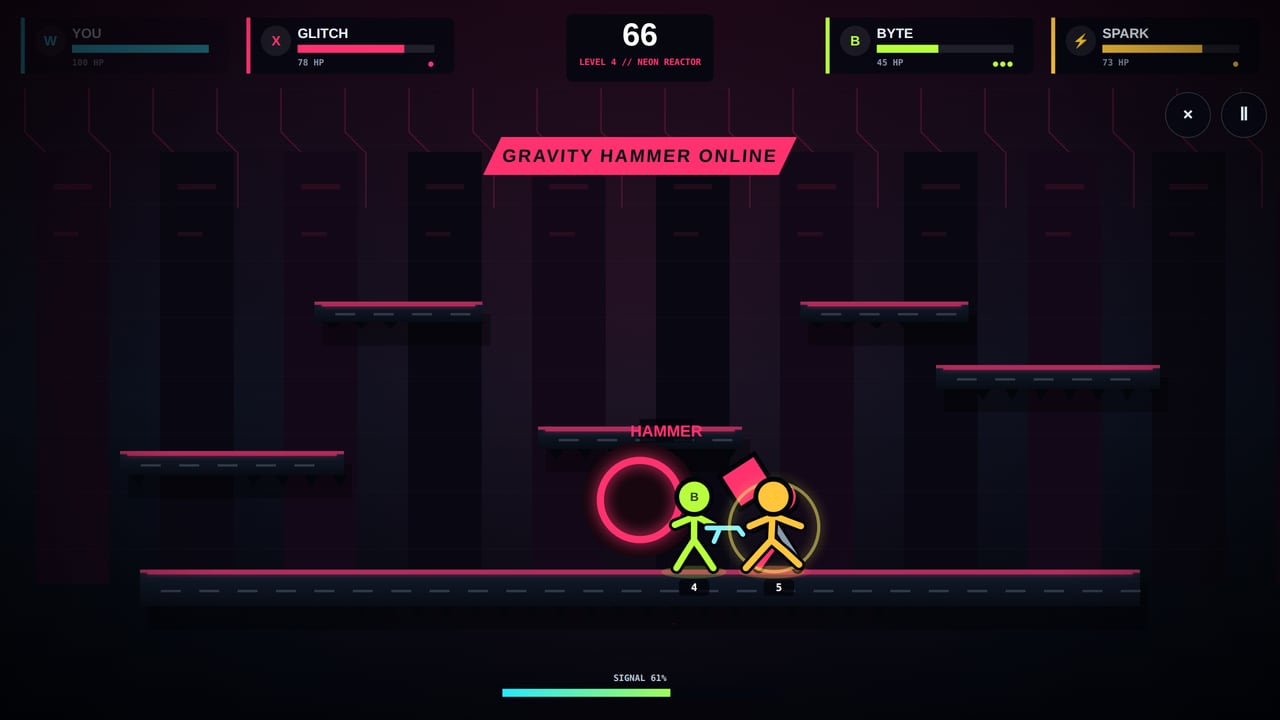
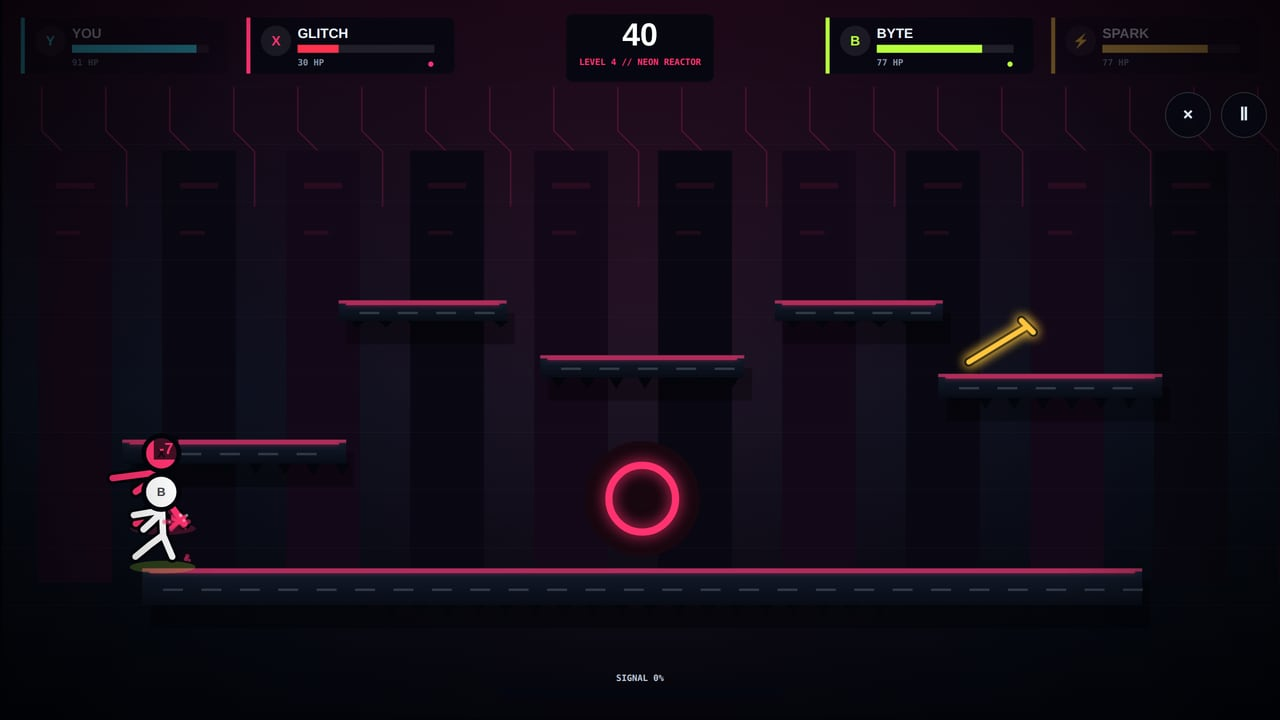
Remove the WEBCADE branding from Signal Brawl
The build arrived branded as a WEBCADE original. Gone from the shipped
files: the "WEBCADE // SIGNAL BRAWL" title tag, the meta description, and
the boxed-W "WEBCADE ORIGINAL" kicker above the logo, along with the
.brand-kicker and .w-mark rules and their breakpoint overrides. The menu
re-centres on the logo, which is where a title screen wants the eye anyway.

The player's fighter wore the same W on its head and HUD card while every
rival wears the initial of their name, so YOU is a Y now.

Recaptured the cover and all five gallery shots, which carried the kicker
and the W. The new result shot also picks up the "YOU OWN THE SIGNAL" fix.

A test asserts none of the four shipped files mentions WEBCADE again.

The two remaining mentions in the repo are in docs/product-reference, where
WEBCADE is named as a platform to surpass and a style to avoid rather than
as branding, so they stay.

Claude-Session: https://claude.ai/code/session_01KKz23RpnqrQP1E2wZAsAFm

diff --git a/public/games/signal-brawl/game.js b/public/games/signal-brawl/game.js
@@ -33,7 +33,7 @@
   const MAX_FALL = 1280;
   const COLORS = ["#27e7ff", "#ff326f", "#b7ff3c", "#ffc53d"];
   const NAMES = ["YOU", "GLITCH", "BYTE", "SPARK"];
-  const ICONS = ["W", "X", "B", "⚡"];
+  const ICONS = ["Y", "X", "B", "⚡"];
   const STAGE_NAMES = ["SIGNAL FOUNDRY", "ROOFTOP RELAY", "CRUSHER VAULT", "NEON REACTOR", "ZERO-G TERMINAL", "FINAL BROADCAST"];
   const isTouch = matchMedia("(pointer: coarse)").matches || navigator.maxTouchPoints > 0;
   const reducedMotion = matchMedia("(prefers-reduced-motion: reduce)").matches;
@@ -52,7 +52,7 @@
    * Persistence.
    *
    * Two hosts have to work. Opening index.html directly gives the game its own
-   * origin and `localStorage` behaves normally. A WEBCADE listing frames the
+   * origin and `localStorage` behaves normally. A catalogue listing frames the
    * same files with `sandbox="allow-scripts"` and deliberately without
    * `allow-same-origin`, which puts the game on an opaque origin where every
    * `localStorage` access throws SecurityError. Swallowing that error keeps the
@@ -1737,7 +1737,7 @@
     // The pause and sound buttons are DOM, the HUD is drawn into the world and
     // then letterboxed, so pinning the buttons to the viewport's top-right put
     // them straight through the fourth fighter's card at 16:9 — which is the
-    // desktop case and the shape of the WEBCADE player. Anchor them to the
+    // desktop case and the shape of the site player. Anchor them to the
     // world rect instead: inside its right edge, below the HUD band.
     const worldRight = width - (viewX + WORLD.w * viewScale);
     const inset = Math.round(worldRight + 16 * viewScale);

diff --git a/public/games/signal-brawl/styles.css b/public/games/signal-brawl/styles.css
@@ -95,28 +95,6 @@ button { font: inherit; -webkit-tap-highlight-color: transparent; }
   mask-image: radial-gradient(circle at center, #000 10%, transparent 76%);
 }
 
-.brand-kicker {
-  display: flex;
-  align-items: center;
-  gap: 10px;
-  color: #cbd7e8;
-  font: 700 13px/1 "Space Mono", monospace;
-  letter-spacing: .24em;
-  margin-bottom: 12px;
-}
-
-.w-mark {
-  display: grid;
-  place-items: center;
-  width: 29px;
-  height: 29px;
-  transform: skew(-8deg);
-  border: 2px solid var(--cyan);
-  color: var(--cyan);
-  font: 900 20px/1 "Barlow Condensed", sans-serif;
-  box-shadow: 0 0 18px rgba(39,231,255,.25), inset 0 0 12px rgba(39,231,255,.12);
-}
-
 h1 {
   position: relative;
   margin: 0;
@@ -448,7 +426,6 @@ h1 strong {
 }
 
 @media (max-height: 560px) {
-  .brand-kicker { margin-bottom: 8px; }
   h1 span { font-size: clamp(43px, 9vh, 76px); }
   h1 strong { font-size: clamp(69px, 16vh, 122px); }
   .menu-copy { margin: 13px 0 8px; font-size: 11px; }
@@ -467,7 +444,6 @@ h1 strong {
 
 @media (max-height: 430px) {
   .overlay { padding-top: 10px; padding-bottom: 10px; }
-  .brand-kicker { margin-bottom: 4px; }
   .menu-copy { display: none; }
   h1 span { font-size: clamp(28px, 8vh, 52px); }
   h1 strong { font-size: clamp(44px, 14vh, 86px); }

diff --git a/public/games/signal-brawl/index.html b/public/games/signal-brawl/index.html
@@ -4,8 +4,8 @@
   <meta charset="utf-8">
   <meta name="viewport" content="width=device-width,initial-scale=1,maximum-scale=1,user-scalable=no,viewport-fit=cover">
   <meta name="theme-color" content="#050811">
-  <meta name="description" content="Signal Brawl — a fast WEBCADE stick-figure arena fighter.">
-  <title>WEBCADE // SIGNAL BRAWL</title>
+  <meta name="description" content="Signal Brawl — a fast stick-figure arena fighter.">
+  <title>SIGNAL BRAWL</title>
   <link rel="stylesheet" href="styles.css">
 </head>
 <body>
@@ -14,7 +14,6 @@
 
     <section id="menu" class="overlay active" aria-labelledby="game-title">
       <div class="menu-grid" aria-hidden="true"></div>
-      <div class="brand-kicker"><span class="w-mark">W</span> WEBCADE ORIGINAL</div>
       <h1 id="game-title"><span>SIGNAL</span><strong>BRAWL</strong></h1>
       <p class="menu-copy">OUTLAST THREE RIVALS. THREE LIVES. SIX HOSTILE LEVELS.</p>
 

diff --git a/tests/signal-brawl.test.ts b/tests/signal-brawl.test.ts
@@ -150,6 +150,15 @@ describe('the shipped build', () => {
     expect(html).not.toMatch(/(?:src|href)\s*=\s*["']?(?:https?:)?\/\//i)
   })
 
+  it('carries no WEBCADE branding', () => {
+    // The build arrived branded as a WEBCADE original: a title tag, a meta
+    // description, a boxed-W kicker over the logo, and the same W worn by the
+    // player's fighter. The owner asked for all of it gone.
+    for (const file of ['index.html', 'game.js', 'styles.css', 'README.md']) {
+      expect(readFileSync(join(GAME_DIR, file), 'utf8')).not.toMatch(/webcade/i)
+    }
+  })
+
   it('talks to the host on the save channel the shell listens on', () => {
     // The game is plain JS the bundler never sees, so nothing but a test keeps
     // the two ends of this protocol spelled the same.

diff --git a/public/games/signal-brawl/README.md b/public/games/signal-brawl/README.md
@@ -1,6 +1,6 @@
 # SIGNAL BRAWL
 
-*A WEBCADE original stick-figure platform brawler*
+*A stick-figure platform brawler*
 
 One player against three CPU rivals, three lives each, on a ninety-second
 timer. Light combos, a charged heavy, a directional dash, a guard with a guard
